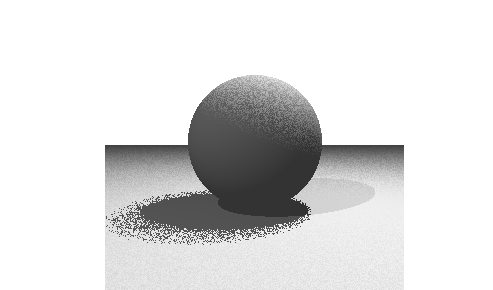
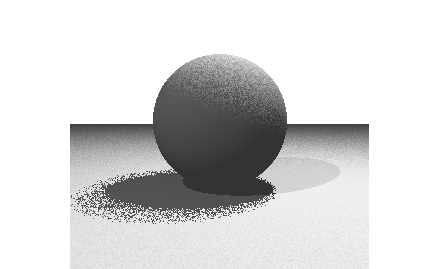
reel

Changed region(s): [[0.1491, 0.1784, 0.8647, 1.0], [0.805, 0.8625, 0.8647, 1.0]]

diff --git a/view/main.html b/view/main.html
@@ -93,7 +93,7 @@
             </div>
             <div id='' class='player-bar-top'>
               <h1 id='' class=''>Lollipop Forest</h1>
-              <h2 id='' class=''>WebAudio API / Paper.js</h2>
+              <h2 id='' class=''>WebAudio API | Paper.js</h2>
               <p>Skip<i class="material-icons">navigate_next</i></p>  
             </div>
             
@@ -115,11 +115,11 @@
           <li class='item'>
           <div id='' class='reel-player-cont amb-heavy-shadow'>
             <div class='rp-img-cont'>
-              <img id='RP-GoldSands_DE' class='player-img' src="https://github.com/CandylabS/CandylabS.github.io/blob/master/img/lollipop.png?raw=true">
+              <img id='RP-GoldSands_DE' class='player-img' src="https://github.com/CandylabS/CandylabS.github.io/blob/master/img/starry.png?raw=true">
             </div>
             <div id='' class='player-bar-top'>
-              <h1 id='' class=''>Lollipop Forest</h1>
-              <h2 id='' class=''>WebAudio API / Paper.js</h2>
+              <h1 id='' class=''>Starry Night</h1>
+              <h2 id='' class=''>Processing | Minim</h2>
               <p>Skip<i class="material-icons">navigate_next</i></p>  
             </div>
             
@@ -137,7 +137,7 @@
               </a>
           </div>
             </li>
-            
+
           </ul>
           </div>
           <a class="toggle2" href="#about" class="global-button rotated scroll"> back to top </a>

diff --git a/js/reel.js b/js/reel.js
@@ -1,11 +1,11 @@
 $(document).ready(function() {
 
   //// VIMEO–player API //
-  var idPlayer = new Vimeo.Player('video');
-  idPlayer.pause();
-  setTimeout(function() {
-    idPlayer.pause();
-  }, 1000); //SAFARI  play on -load BUG
+  // var idPlayer = new Vimeo.Player('video');
+  // idPlayer.pause();
+  // setTimeout(function() {
+  //   idPlayer.pause();
+  // }, 1000); //SAFARI  play on -load BUG
 
 
   var RP_cont = $(".reel-player-cont"),
@@ -82,7 +82,6 @@ $(document).ready(function() {
        //console.log(o); 
        }); */
   };
-
 
   RP_cont.hover(function() {
     // if (mRP_cont != $(this)) {

diff --git a/css/reel.css b/css/reel.css
@@ -183,9 +183,9 @@ iframe {
   bottom: 0;
   right: 0;
   margin: auto;
-  margin-left: -5%;
+  margin-left: 5%;
   margin-bottom: 18%;
-  width: 110%;
+  width: 90%;
   opacity: 0.95;
   -webkit-transition: margin 1.2s cubic-bezier(0.16, 0, 0, 0.95);
   transition: margin 1.2s cubic-bezier(0.16, 0, 0, 0.95);
@@ -193,7 +193,7 @@ iframe {
           transition-delay: 0.1s;
 }
 .player-img.active {
-  margin-bottom: 20%;
+  margin-bottom: 22%;
   opacity: 0.35;
   -webkit-transition-delay: 0s;
           transition-delay: 0s;
